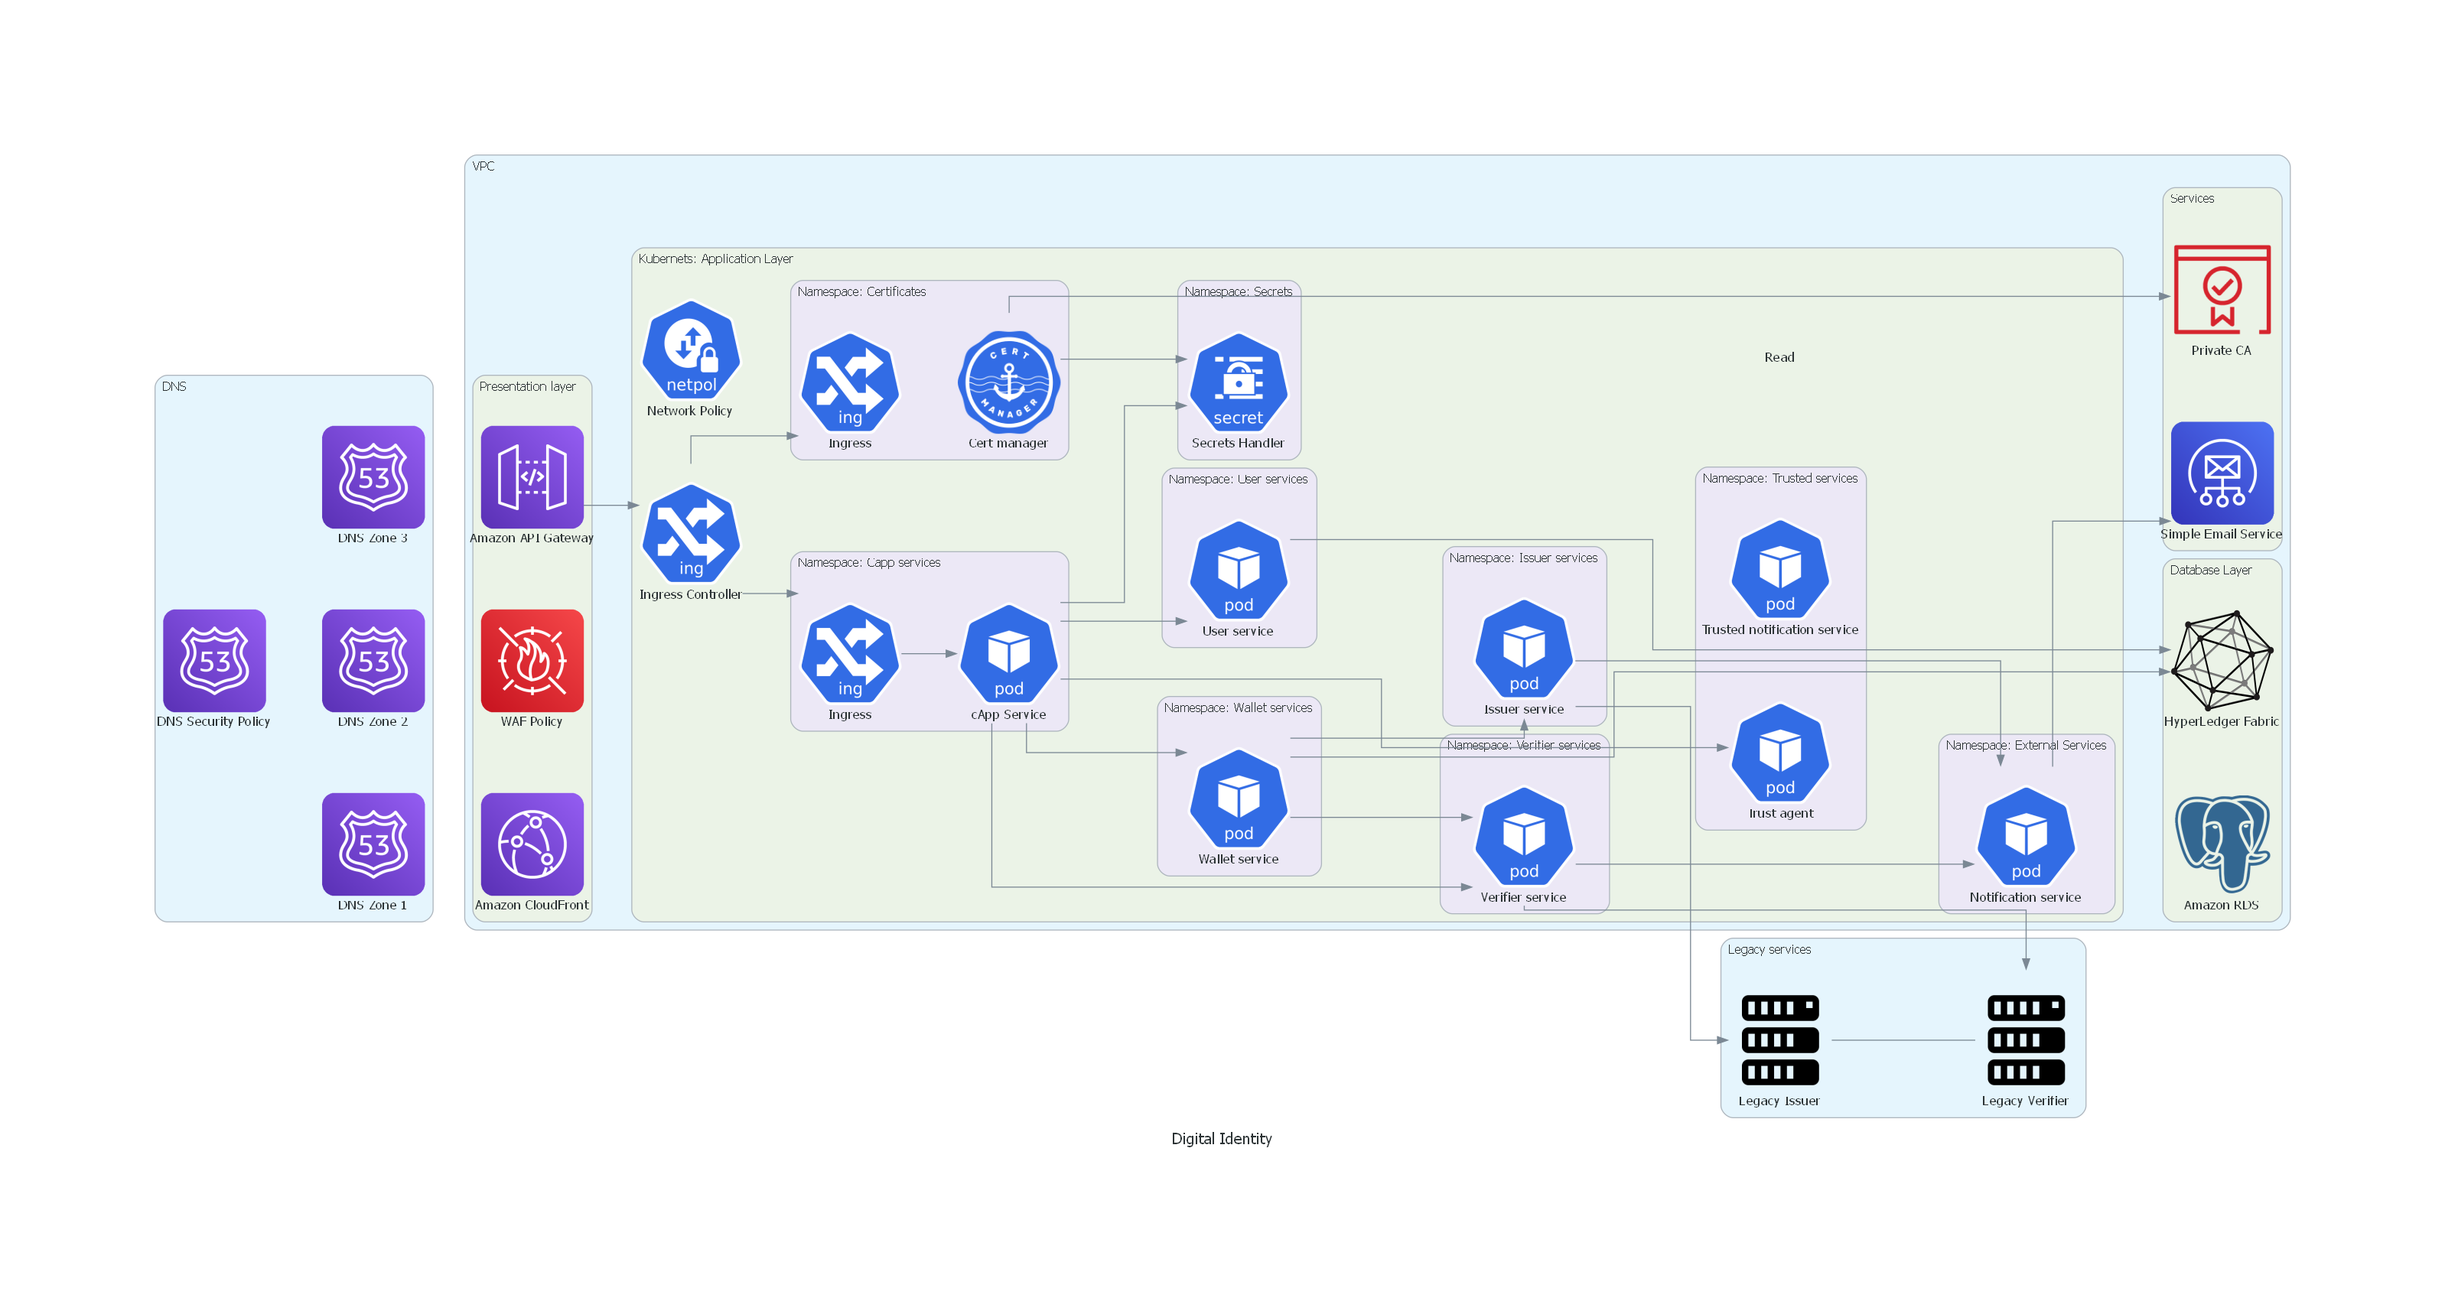
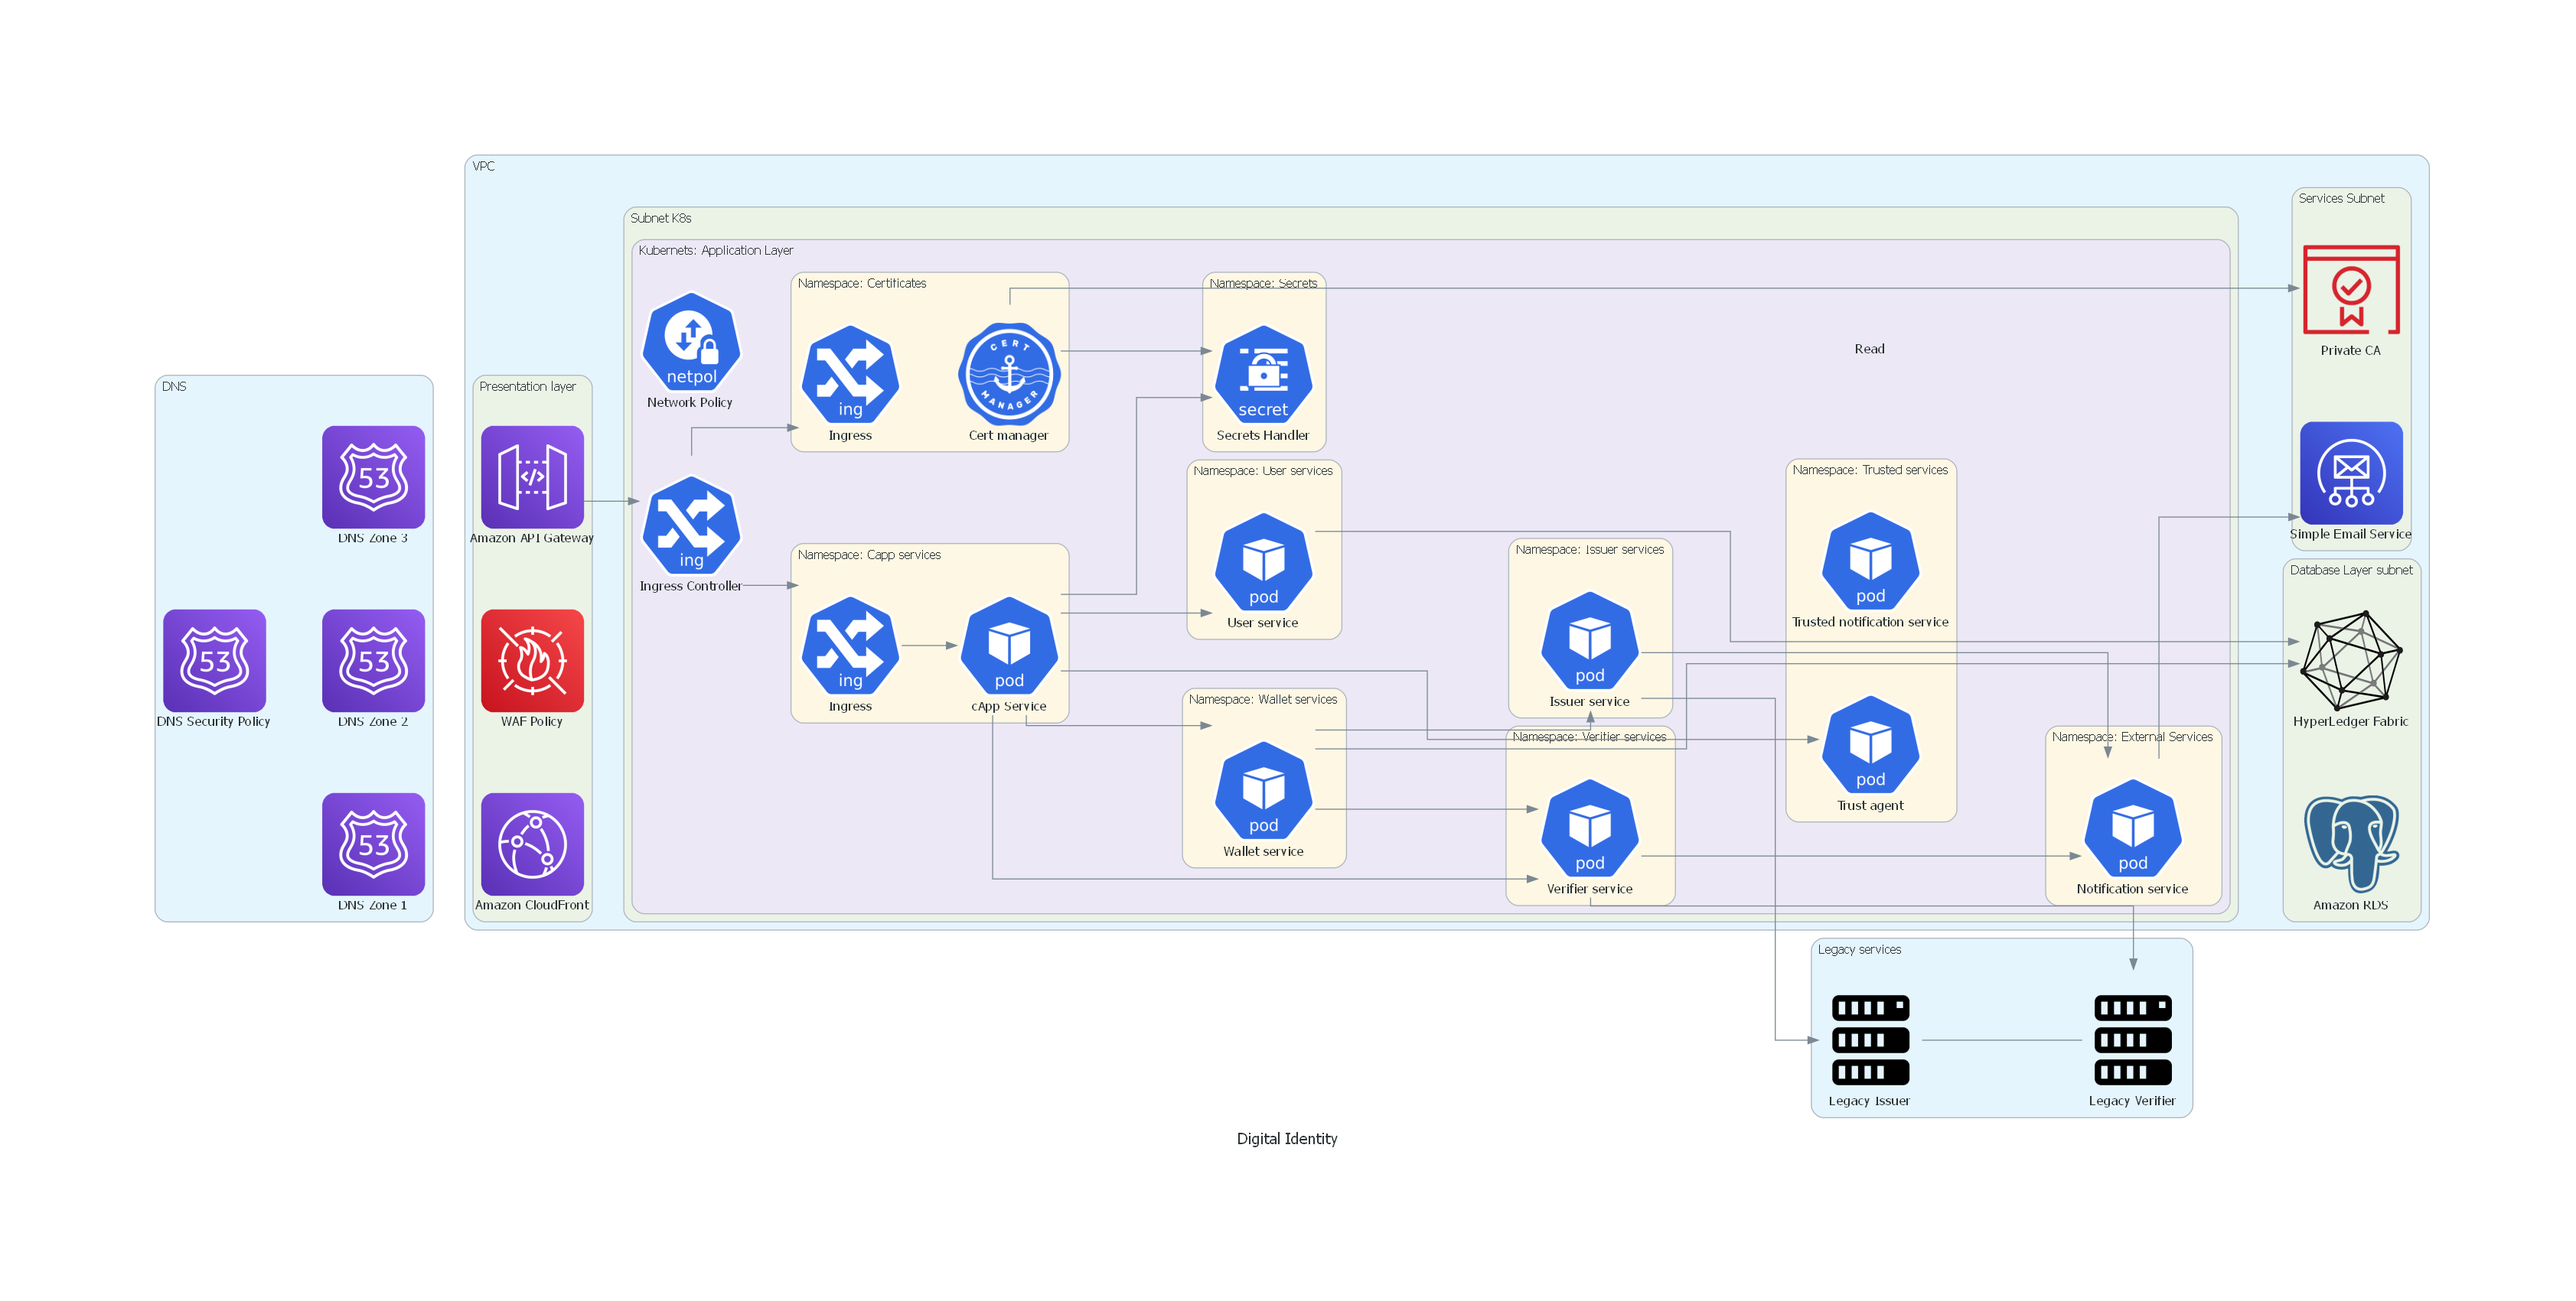
feat: tarea 1 - adding some readme changes

diff --git a/tarea_1.py b/tarea_1.py
@@ -42,47 +42,48 @@ with Diagram("Digital Identity", show=False):
             waf = WAF("WAF Policy")
             api_gateway = APIGateway("Amazon API Gateway")
         
-        with Cluster("Kubernets: Application Layer"):
+        with Cluster("Subnet K8s"):
+            with Cluster("Kubernets: Application Layer"):
             
-            ingresController = Ingress("Ingress Controller")
-            network_policy = NetworkPolicy("Network Policy")
+                ingresController = Ingress("Ingress Controller")
+                network_policy = NetworkPolicy("Network Policy")
 
-            with Cluster("Namespace: Capp services", direction="TB"):
-                ingress = Ingress("Ingress")
-                capp = Pod("cApp Service")
-            
-            with Cluster ("Namespace: Certificates"):
-                ingress_cert = Ingress("Ingress")
-                cert_manager = Custom("Cert manager", "./icons/cert-manager-icon.png")
+                with Cluster("Namespace: Capp services", direction="TB"):
+                    ingress = Ingress("Ingress")
+                    capp = Pod("cApp Service")
+                
+                with Cluster ("Namespace: Certificates"):
+                    ingress_cert = Ingress("Ingress")
+                    cert_manager = Custom("Cert manager", "./icons/cert-manager-icon.png")
 
-            with Cluster ("Namespace: Secrets"):
-                secret_handler = Secret("Secrets Handler")
+                with Cluster ("Namespace: Secrets"):
+                    secret_handler = Secret("Secrets Handler")
 
-            with Cluster ("Namespace: User services"):
-                user = Pod("User service")
+                with Cluster ("Namespace: User services"):
+                    user = Pod("User service")
 
-            with Cluster ("Namespace: Wallet services"):
-                wallet = Pod("Wallet service")
+                with Cluster ("Namespace: Wallet services"):
+                    wallet = Pod("Wallet service")
 
-            
-            with Cluster("Namespace: Verifier services"):
-                verifier = Pod("Verifier service")
+                
+                with Cluster("Namespace: Verifier services"):
+                    verifier = Pod("Verifier service")
 
-            with Cluster("Namespace: Issuer services"):
-                issuer = Pod("Issuer service")
-            
-            with Cluster("Namespace: Trusted services"):
-                trust_agent = Pod("Trust agent")
-                trusted_mail_service = Pod("Trusted notification service")
-            
-            with Cluster("Namespace: External Services"):
-                notification_service = Pod("Notification service")
+                with Cluster("Namespace: Issuer services"):
+                    issuer = Pod("Issuer service")
+                
+                with Cluster("Namespace: Trusted services"):
+                    trust_agent = Pod("Trust agent")
+                    trusted_mail_service = Pod("Trusted notification service")
+                
+                with Cluster("Namespace: External Services"):
+                    notification_service = Pod("Notification service")
         
-        with Cluster("Database Layer"):
+        with Cluster("Database Layer subnet"):
             db = PostgreSQL("Amazon RDS")
             blockchain = Custom("HyperLedger Fabric", "./icons/hyper_ledger.png")
         
-        with Cluster("Services"):
+        with Cluster("Services Subnet"):
             email_external = SimpleEmailServiceSes("Simple Email Service")
             cert_authority = CertificateAuthority("Private CA")
 

diff --git a/README.md b/README.md
@@ -7,17 +7,27 @@ Proposito: Desarrollo del diseño-diagrama de arquitectura Omnione OpenId para e
 
 Recomendación:
 
-1 - Aislamiento de servicios.
+# 1 - Aislamiento de servicios.
 
 
 Wallet y User service: en el diseño base del namespace waller services ns se encontraban el certified app, su servicio, el user service, el wallet service y un volumen para almacenar certificados. Este namespace estaba abierto a la conexión desde el exterior para el acceso al Capp, sin embargo, esto puede plantear problemas para otros servicios como el user service y el wallet service, que a pesar de que necesitan comunicarse con el Capp no necesitan conexión al exterior, y que al estar en el mismo namespace pueden ser susceptibles si alguno de los otros servicios del namespace se ve comprometido. Por esto mismo se recomienda aislar tanto el user service y el wallet service, y que para acceder a ellos se deba hacer mediante la definición y cumplimiento de network policies.
 
 
-2 - Certificados: Esta opción es de desarrollo que de modificación. De igual manera que con los servicios explicados anteriormente, al estar en el mismo namespace del CApp se ve susceptible a actos maliciosos si algún servicio fuera vulnerado como lo pueden ser suplantación de certificados/servicios y modificaciones no deseadas. La idea es implementar un cert manager que se encargue de automatizar la gestión de certificados y que estos se almacenen en el secret de Kubernets, luego cuando sea necesario cargarlos ya sea en un volumen o como variables de entorno, esto permite añadir más regla de acceso a los certificados, detectar comportamientos extraños e incluso la automatización de actualización de los mismos cuando se detecta un cambio. Esto se debe desarrollar más, pero el utilizar este medio permite que Kubernets maneje el registro de quien accede o monta secretos, lo que facilita auditorias y seguimientos.
+# 2 - Certificados.
+ 
+Esta opción es de desarrollo que de modificación. De igual manera que con los servicios explicados anteriormente, al estar en el mismo namespace del CApp se ve susceptible a actos maliciosos si algún servicio fuera vulnerado como lo pueden ser suplantación de certificados/servicios y modificaciones no deseadas. La idea es implementar un cert manager que se encargue de automatizar la gestión de certificados y que estos se almacenen en el secret de Kubernets, luego cuando sea necesario cargarlos ya sea en un volumen o como variables de entorno, esto permite añadir más regla de acceso a los certificados, detectar comportamientos extraños e incluso la automatización de actualización de los mismos cuando se detecta un cambio. Esto se debe desarrollar más, pero el utilizar este medio permite que Kubernets maneje el registro de quien accede o monta secretos, lo que facilita auditorias y seguimientos.
 
-Factor de seguridad:
+# 3 - Subredes
+
+Separar algunas capas y servicios dentro de la VPC permite un control más estricto sobre quien o que puede acceder a algún servicio mediante la implementación de reglas de firewall o incluso listas de acceso (incluyendo restricción de puertos y servicios). Esto evitaría que si un servicio externo al cluster (como ejemplo el servicio de mail o bases de datos) se ve vulnerado, sea más difícil o imposible moverse a otros servicios a diferencia de si estuviera en la misma subred, básicamente se puede definir como una reducción en la superficie de ataque. 
+
+
+# Factor de seguridad:
 
 1 - Aislamiento de servicios: Manejo de privilegios, políticas y restricciones. Segmentación de la red y reducción de la superficie de ataque.
+
 2 - Gestión de certificados: Gestión automática. Almacenamiento seguro, restricción de acceso y facilidades para auditorias, monitoreo y seguimiento.
+
+3 - Segmentación de la red: Menos superficie de ataque, implementación de políticas y reglas más estrictas para el acceso a servicios desde el cluster de kubernets y viceversa.
 
 Resultado temporal ![Logo del proyecto](digital_identity.png)
